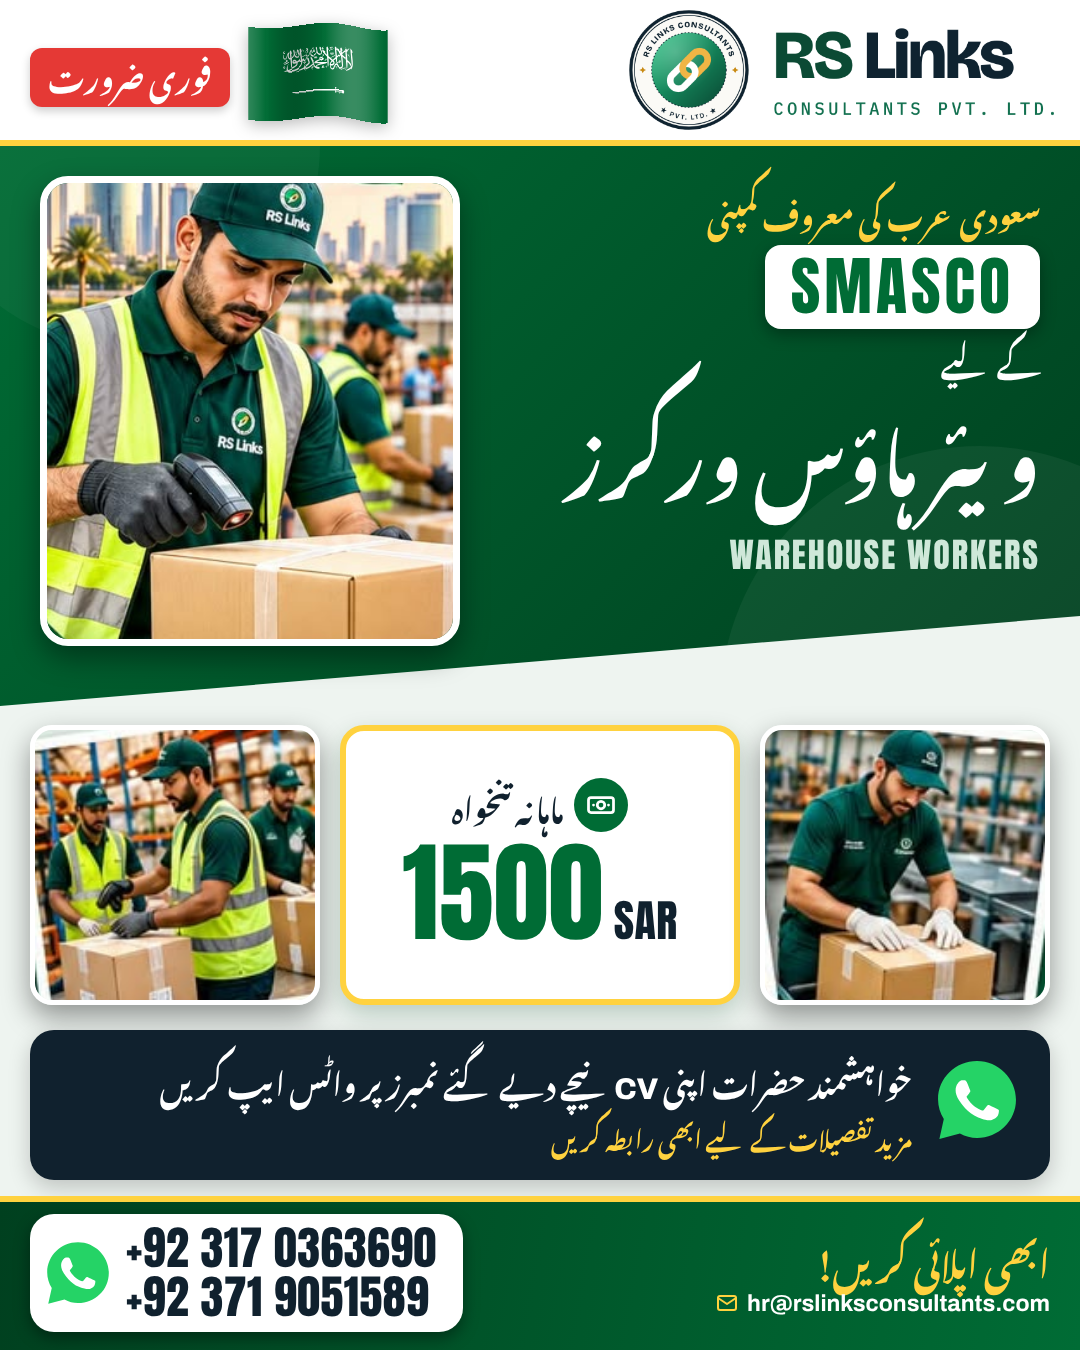
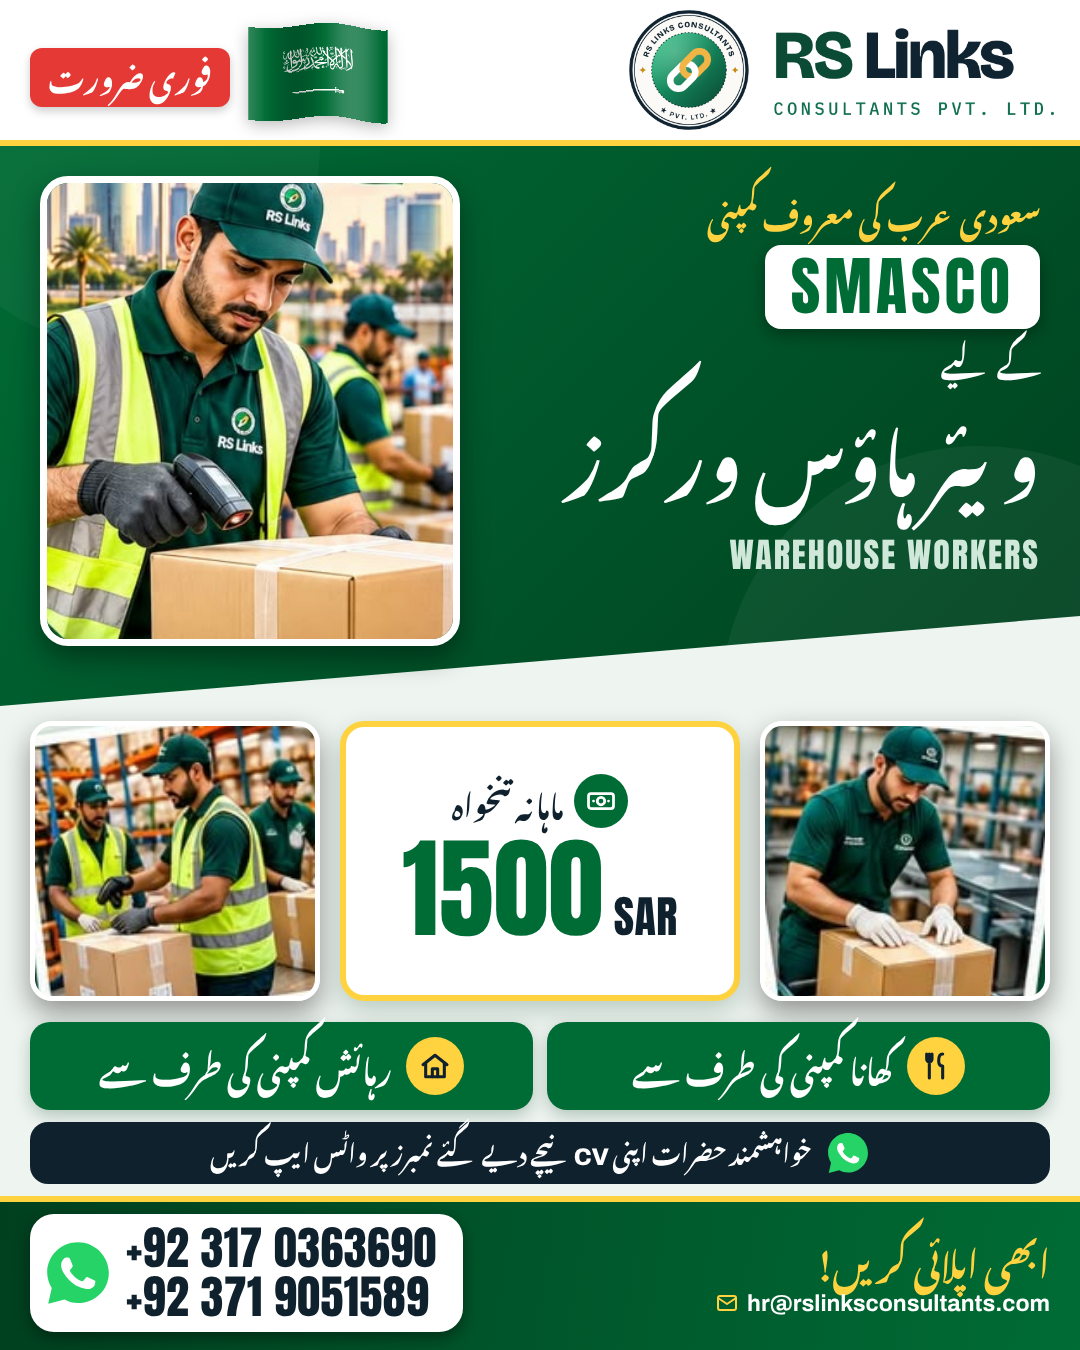
SMASCO ad: food and accommodation provided
Claude-Session: https://claude.ai/code/session_01YJ5ofgU8QCiWTsYR9pvXG4

Changed region(s): [[0.0306, 0.5289, 0.9778, 0.9022]]

diff --git a/src/saudi_smasco.py b/src/saudi_smasco.py
@@ -1,5 +1,5 @@
 """Saudi Arabia — Warehouse Workers for SMASCO (2026-10-14). Facts from the user: warehouse workers,
-salary 1500 SAR, SMASCO company (named at user request). Real RS Links photos. Urdu only."""
+salary 1500 SAR, food + accommodation provided, SMASCO company (named at user request). Real RS Links photos. Urdu only."""
 from common import C, PHOTOS, WHATSAPP, flag, icon, logo_img, page, render, whatsapp_icon
 from style_corporate_grid import T
 
@@ -37,7 +37,7 @@ def build():
  {f.txt('ویئر ہاؤس ورکرز', 0, 76, '#fff', 'font-weight:700;margin-top:6px', 1.55)}
  <div style='font-family:Anton;font-size:34px;color:#CFE8D9;letter-spacing:2px;direction:ltr;text-align:right;margin-top:22px'>WAREHOUSE WORKERS</div></div>
 
-<div class='abs' style='top:720px;left:30px;right:30px;height:290px;display:flex;gap:20px;align-items:center;direction:ltr' data-check='mid'>
+<div class='abs' style='top:716px;left:30px;right:30px;height:290px;display:flex;gap:20px;align-items:center;direction:ltr' data-check='mid'>
  {ph('rslinks_team_scan', 290, 280, 22, 5)}
  <div style='flex:1;height:280px;border-radius:24px;background:#fff;border:6px solid {GOLD};box-shadow:0 10px 24px rgba(0,64,31,.22);display:flex;flex-direction:column;align-items:center;justify-content:center;direction:rtl'>
   <div style='display:flex;align-items:center;gap:10px'><div style='width:54px;height:54px;border-radius:50%;background:{GREEN};display:flex;align-items:center;justify-content:center'>{icon('money', 30)}</div>
@@ -47,10 +47,17 @@ def build():
  {ph('rslinks_worker_pack', 290, 280, 22, 5)}
 </div>
 
-<div class='abs' style='top:1030px;left:30px;right:30px;height:150px;border-radius:24px;background:{NAVY};display:flex;align-items:center;gap:22px;padding:0 30px;box-shadow:0 8px 22px #0003' data-check='cv'>
- <div style='flex:none'>{whatsapp_icon(86)}</div>
- <div>{f.txt(f"خواہشمند حضرات اپنی {N('CV')} نیچے دیے گئے نمبرز پر واٹس ایپ کریں", 0, 30, '#fff', 'font-weight:700', 1.7)}
-  {f.txt('مزید تفصیلات کے لیے ابھی رابطہ کریں', 0, 24, GOLD, 'font-weight:700', 1.7)}</div></div>
+<div class='abs' style='top:1022px;left:30px;right:30px;height:88px;display:flex;gap:14px' data-check='fac'>
+
+ <div style='flex:1;border-radius:20px;background:{GREEN};display:flex;align-items:center;justify-content:center;gap:14px;box-shadow:0 6px 16px rgba(0,64,31,.25)'>
+  <div style='width:58px;height:58px;border-radius:50%;background:{GOLD};display:flex;align-items:center;justify-content:center'>{icon('food', 32, NAVY, 2.3)}</div>
+  {f.txt('کھانا کمپنی کی طرف سے', 0, 32, '#fff', 'font-weight:700', 1.6)}</div>
+ <div style='flex:1;border-radius:20px;background:{GREEN};display:flex;align-items:center;justify-content:center;gap:14px;box-shadow:0 6px 16px rgba(0,64,31,.25)'>
+  <div style='width:58px;height:58px;border-radius:50%;background:{GOLD};display:flex;align-items:center;justify-content:center'>{icon('home', 32, NAVY, 2.3)}</div>
+  {f.txt('رہائش کمپنی کی طرف سے', 0, 32, '#fff', 'font-weight:700', 1.6)}</div>
+</div>
+<div class='abs' style='top:1122px;left:30px;right:30px;height:62px;border-radius:18px;background:{NAVY};display:flex;align-items:center;justify-content:center;gap:14px' data-check='cv'>
+ {whatsapp_icon(44)}{f.txt(f"خواہشمند حضرات اپنی {N('CV')} نیچے دیے گئے نمبرز پر واٹس ایپ کریں", 0, 24, '#fff', 'font-weight:700', 1.6)}</div>
 
 <div class='abs' style='top:1196px;left:0;width:1080px;height:154px;background:linear-gradient(100deg,{DEEP},{GREEN});border-top:6px solid {GOLD}'></div>
 <div class='abs' style='top:1196px;height:154px;right:30px;width:500px;display:flex;flex-direction:column;justify-content:center;text-align:right'>

diff --git a/demands/2026-10-14-saudi-smasco-warehouse/facts.md b/demands/2026-10-14-saudi-smasco-warehouse/facts.md
@@ -1,4 +1,5 @@
 # Saudi Arabia — Warehouse Workers, SMASCO (2026-10-14)
 Source: user text: "Warehouse workers, Salary 1500 SAR, Smasco company".
 - Employer named at user request.
+- Food + accommodation provided (user, 2026-10-14).
 - Missing: posts, age, duty hours, accommodation/food/transport, contract, visa type, documents, interview
